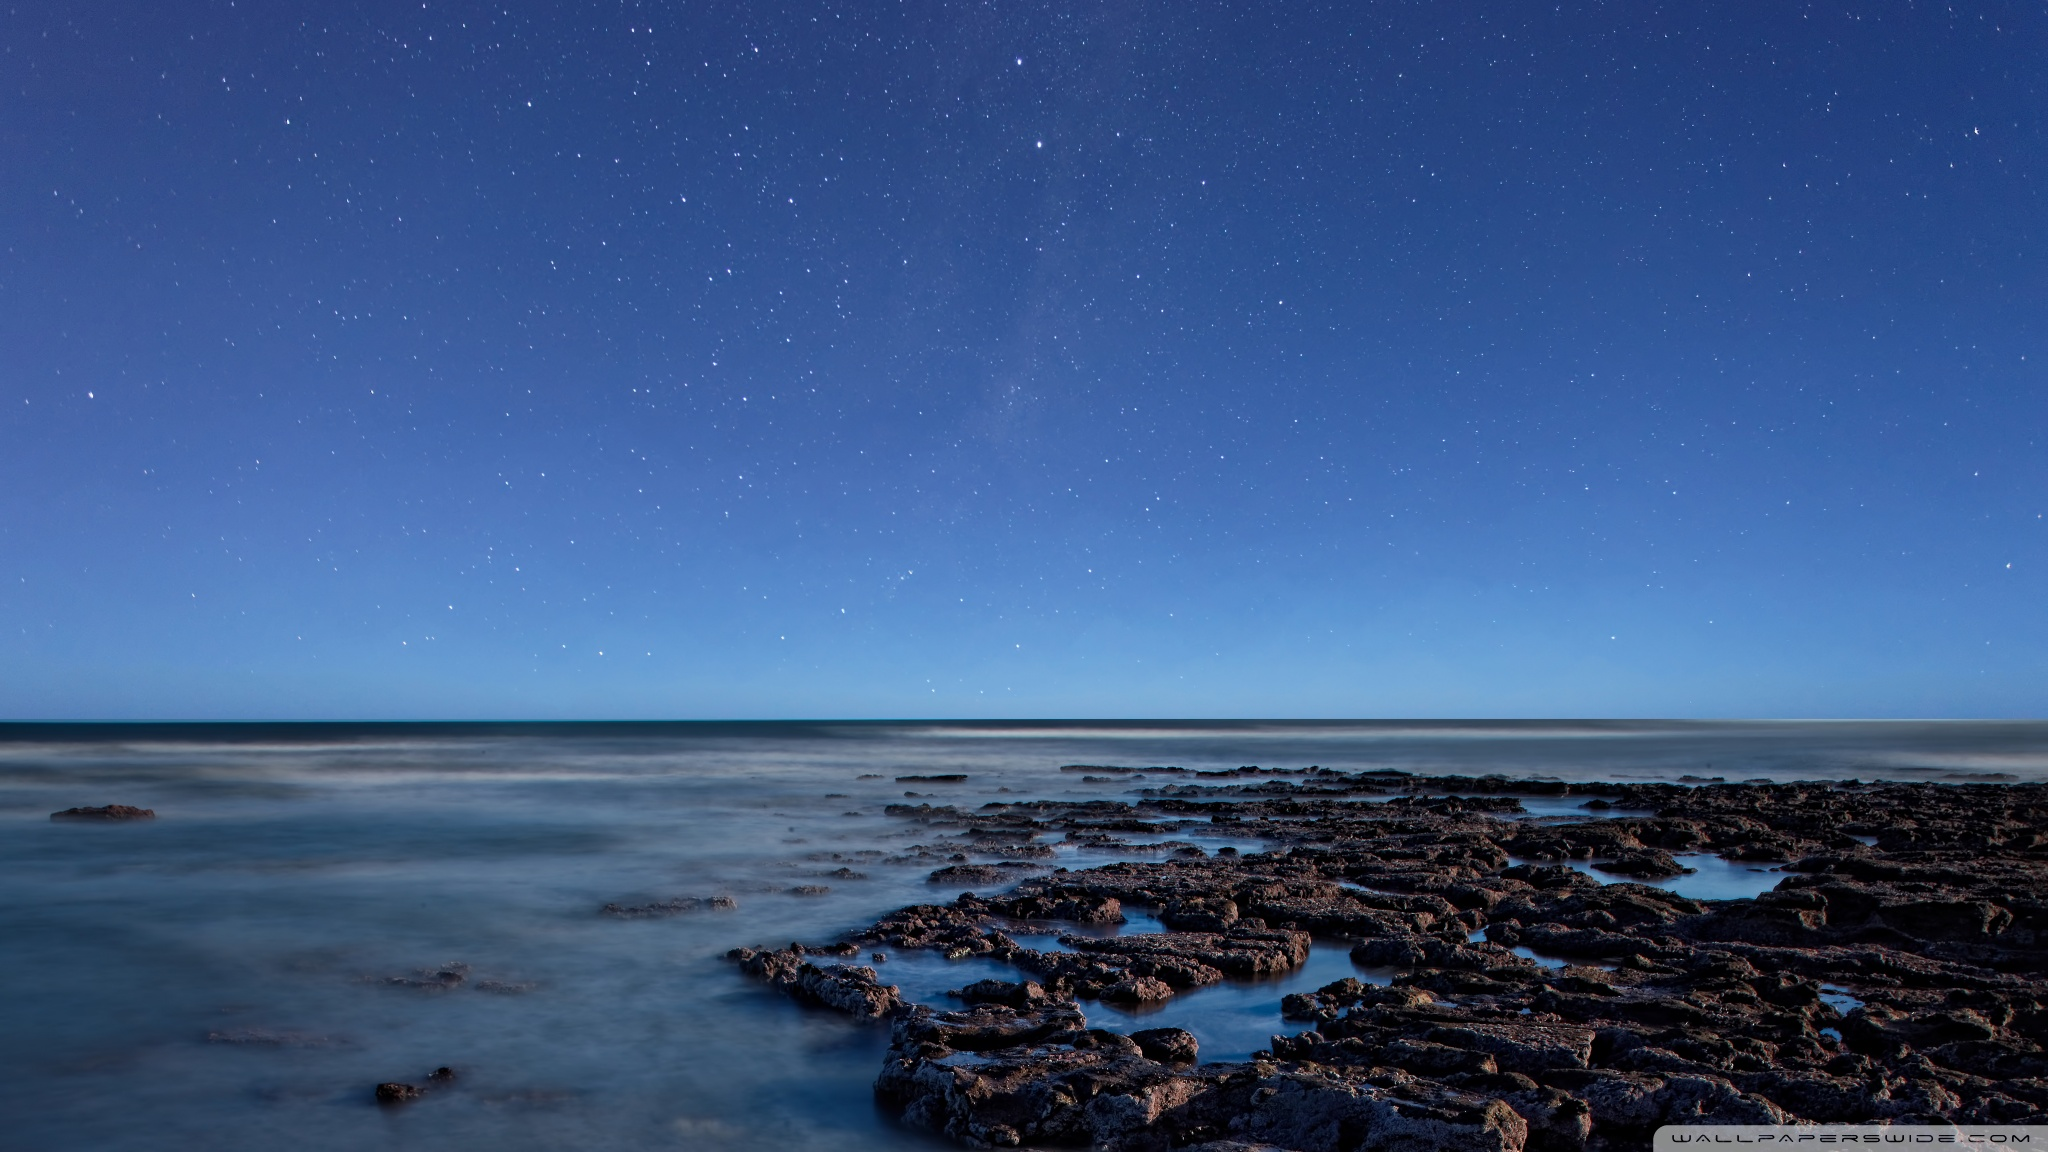
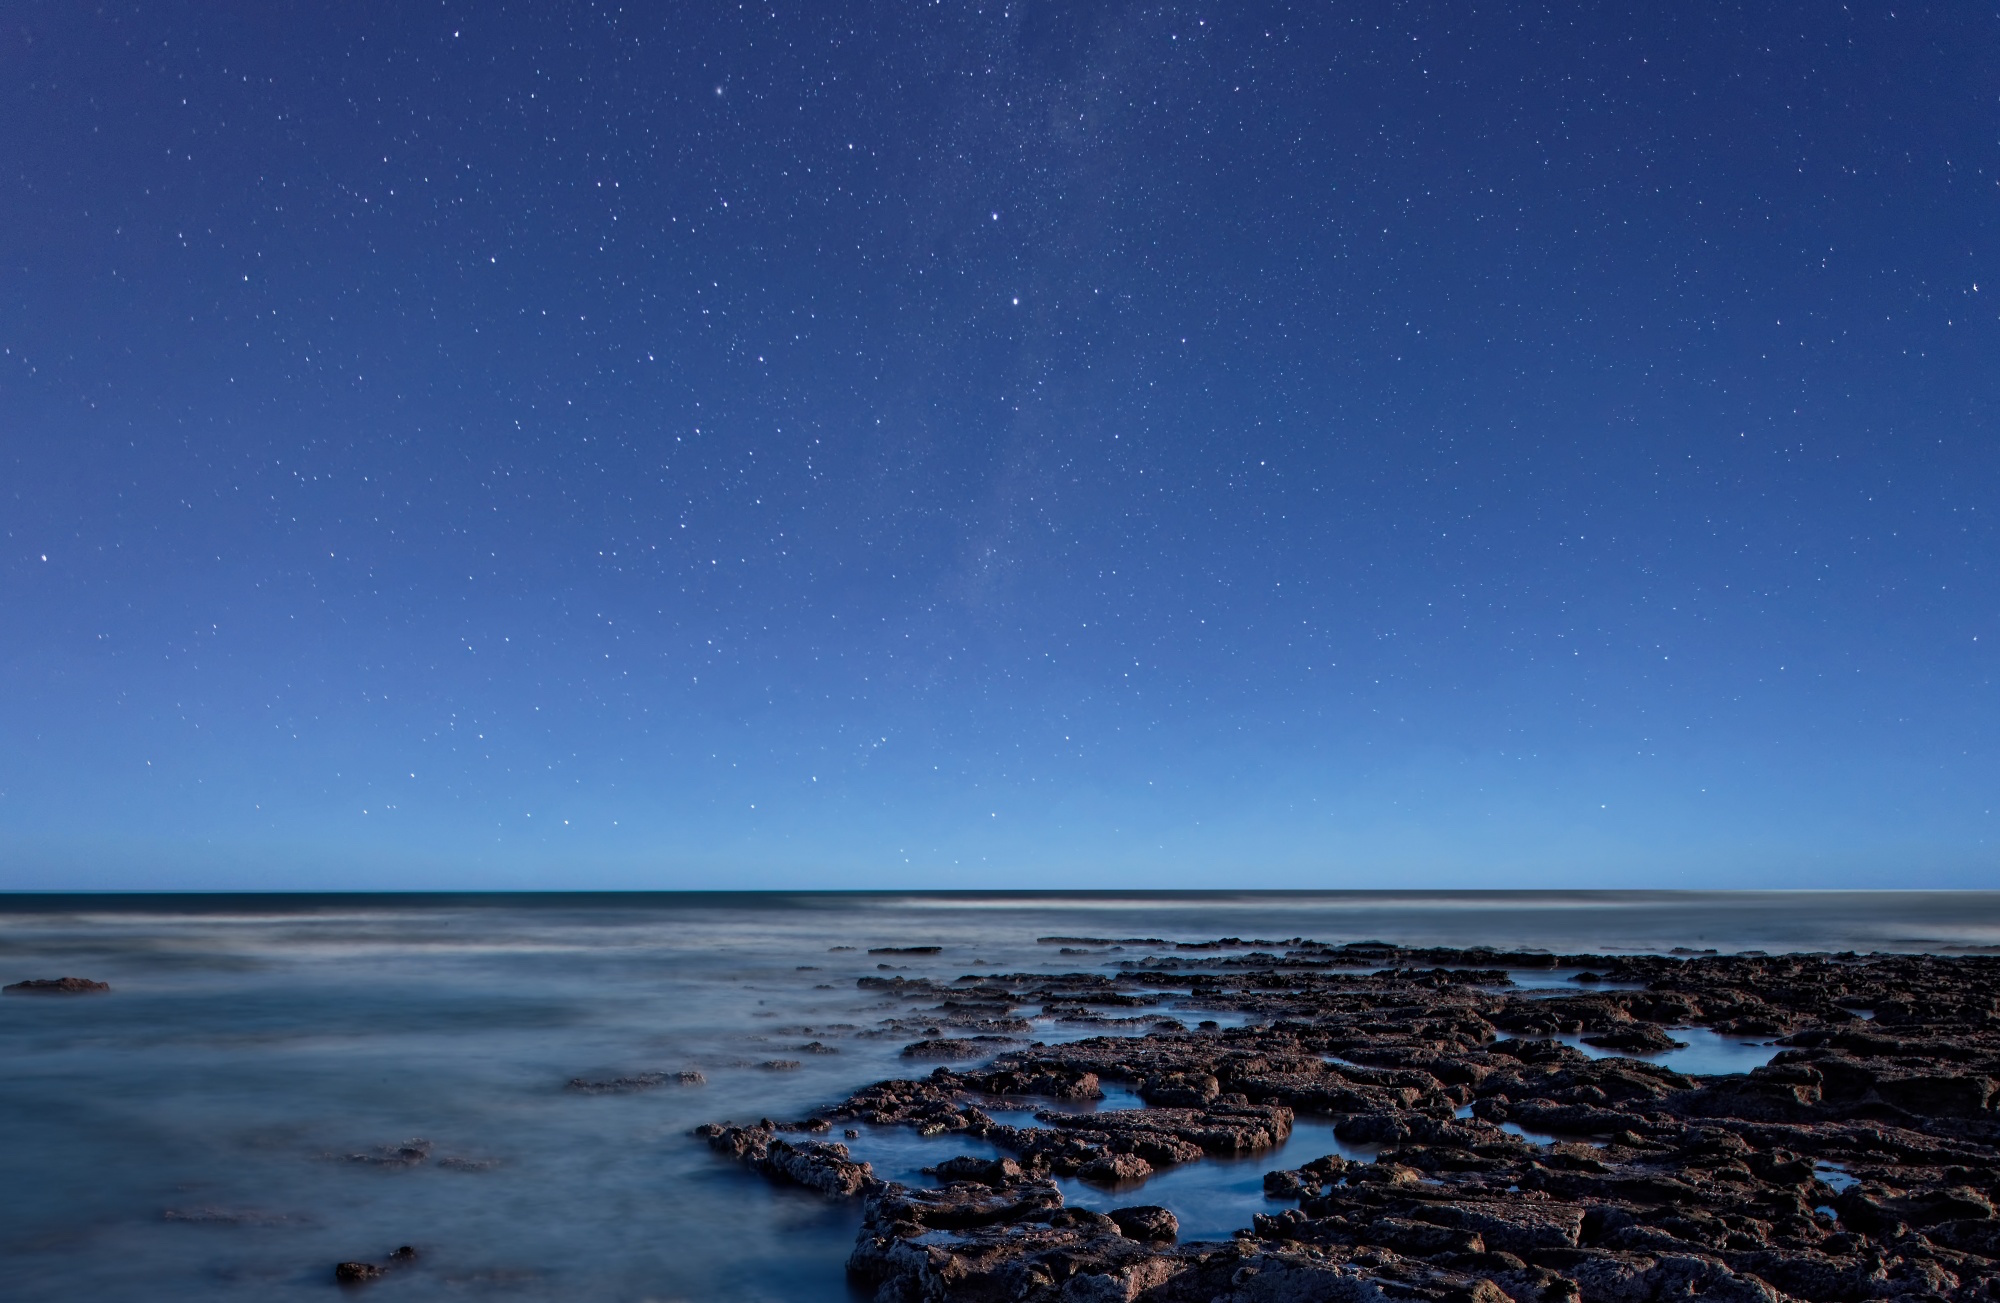
encrypted passwords/fixed background

Changed region(s): [[0.0, 0.4688, 1.0, 1.0], [0.093, 0.8438, 0.124, 0.875]]

diff --git a/meditateServer.js b/meditateServer.js
@@ -12,6 +12,16 @@ var app = express();
 var server = require('http').createServer(app);
 var io = require('socket.io')(server);
 
+var crypto = require('crypto');
+
+// Encrypt a string
+function encrypt(str) {
+  var cipher = crypto.createCipher('aes-256-ctr', 'N58Q2ae9');
+  var encrypedStr = cipher.update(str, 'utf8', 'hex');
+  encrypedStr += cipher.final('hex');
+  return encrypedStr;
+}
+
 var port = 8080;
 var db = 'meditation';
 var url = 'mongodb://localhost:27017/' + db;
@@ -387,7 +397,7 @@ io.on('connection', function(sock) {
 					sock.emit('loginCheckResponse', { loginAccepted: false });
 				} 
 				else {
-					if (login.loginPword !== item.password) {
+					if (encrypt(login.loginPword) !== item.password) {
 						console.log("The password is not correct\n");
 						sock.emit('loginCheckResponse', { loginAccepted: false });
 					} 
@@ -463,7 +473,7 @@ io.on('connection', function(sock) {
 			}, function(err, item) {
 				if (err) throw err;
 				
-				if (item.password !== cpword.oldpword) {
+				if (item.password !== encrypt(cpword.oldpword)) {
 					sock.emit('newpwordAccepted', { pwordAccept: false });
 					db.close();
 				}
@@ -472,7 +482,7 @@ io.on('connection', function(sock) {
 						{ username: cpword.username },
 						{ $set:
 							{
-								password: cpword.newpword
+								password: encrypt(cpword.newpword)
 							}
 						}, function() {
 							console.log("User password changed!");
@@ -500,7 +510,7 @@ app.post('/account', function(req, res) {
 		firstname: req.body.firstname,
 		lastname: req.body.lastname,
 		username: req.body.username,
-		password: req.body.password,
+		password: encrypt(req.body.password),
 		email: req.body.email,
 		zipcode: req.body.zipcode,
 		defaultHrs: "0",

diff --git a/public/meditation.css b/public/meditation.css
@@ -1,7 +1,11 @@
 body {
 	background-color: #000000;
-	background: url('/images/ocean_at_night.jpg') center center fixed;
-	color: #FFFFFF;
+	background: url('/images/ocean_at_night.jpg') no-repeat center center fixed;
+	-webkit-background-size: cover;
+	-moz-background-size: cover;
+	-o-background-size: cover;
+	background-size: cover;
+  	color: #FFFFFF;
 	text-align: center;
 	font-family: "Raleway", Verdana;
 	font-size: 20px;
